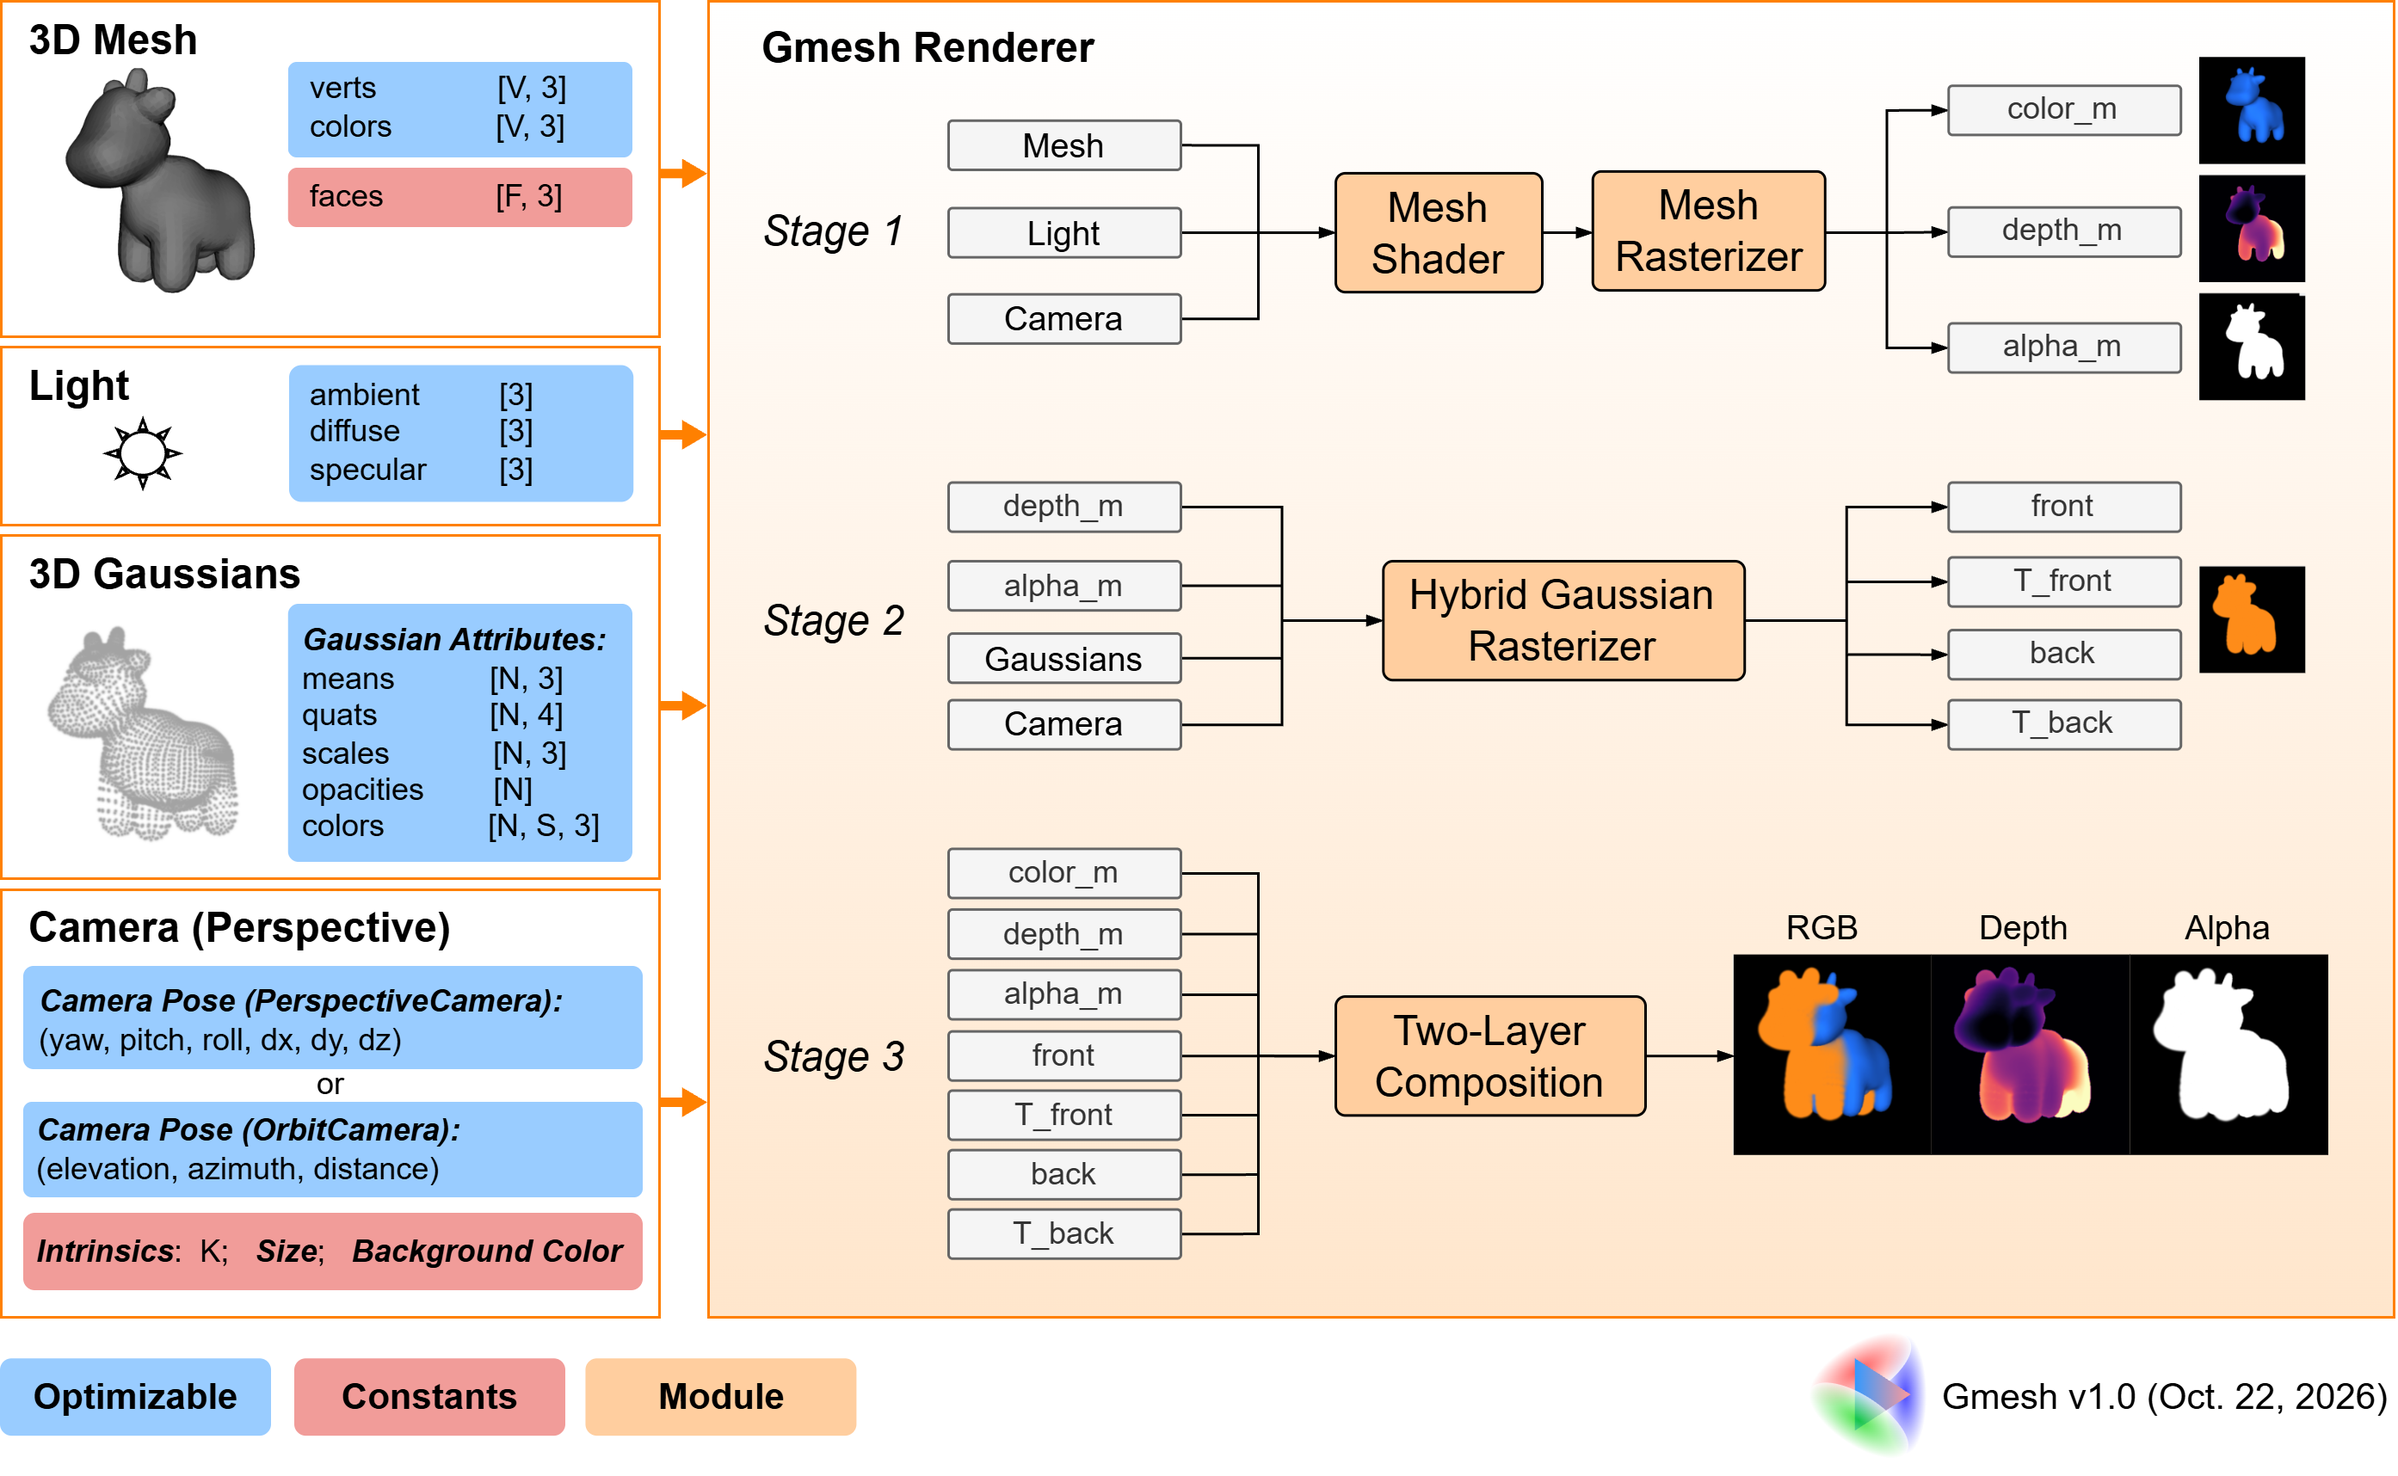
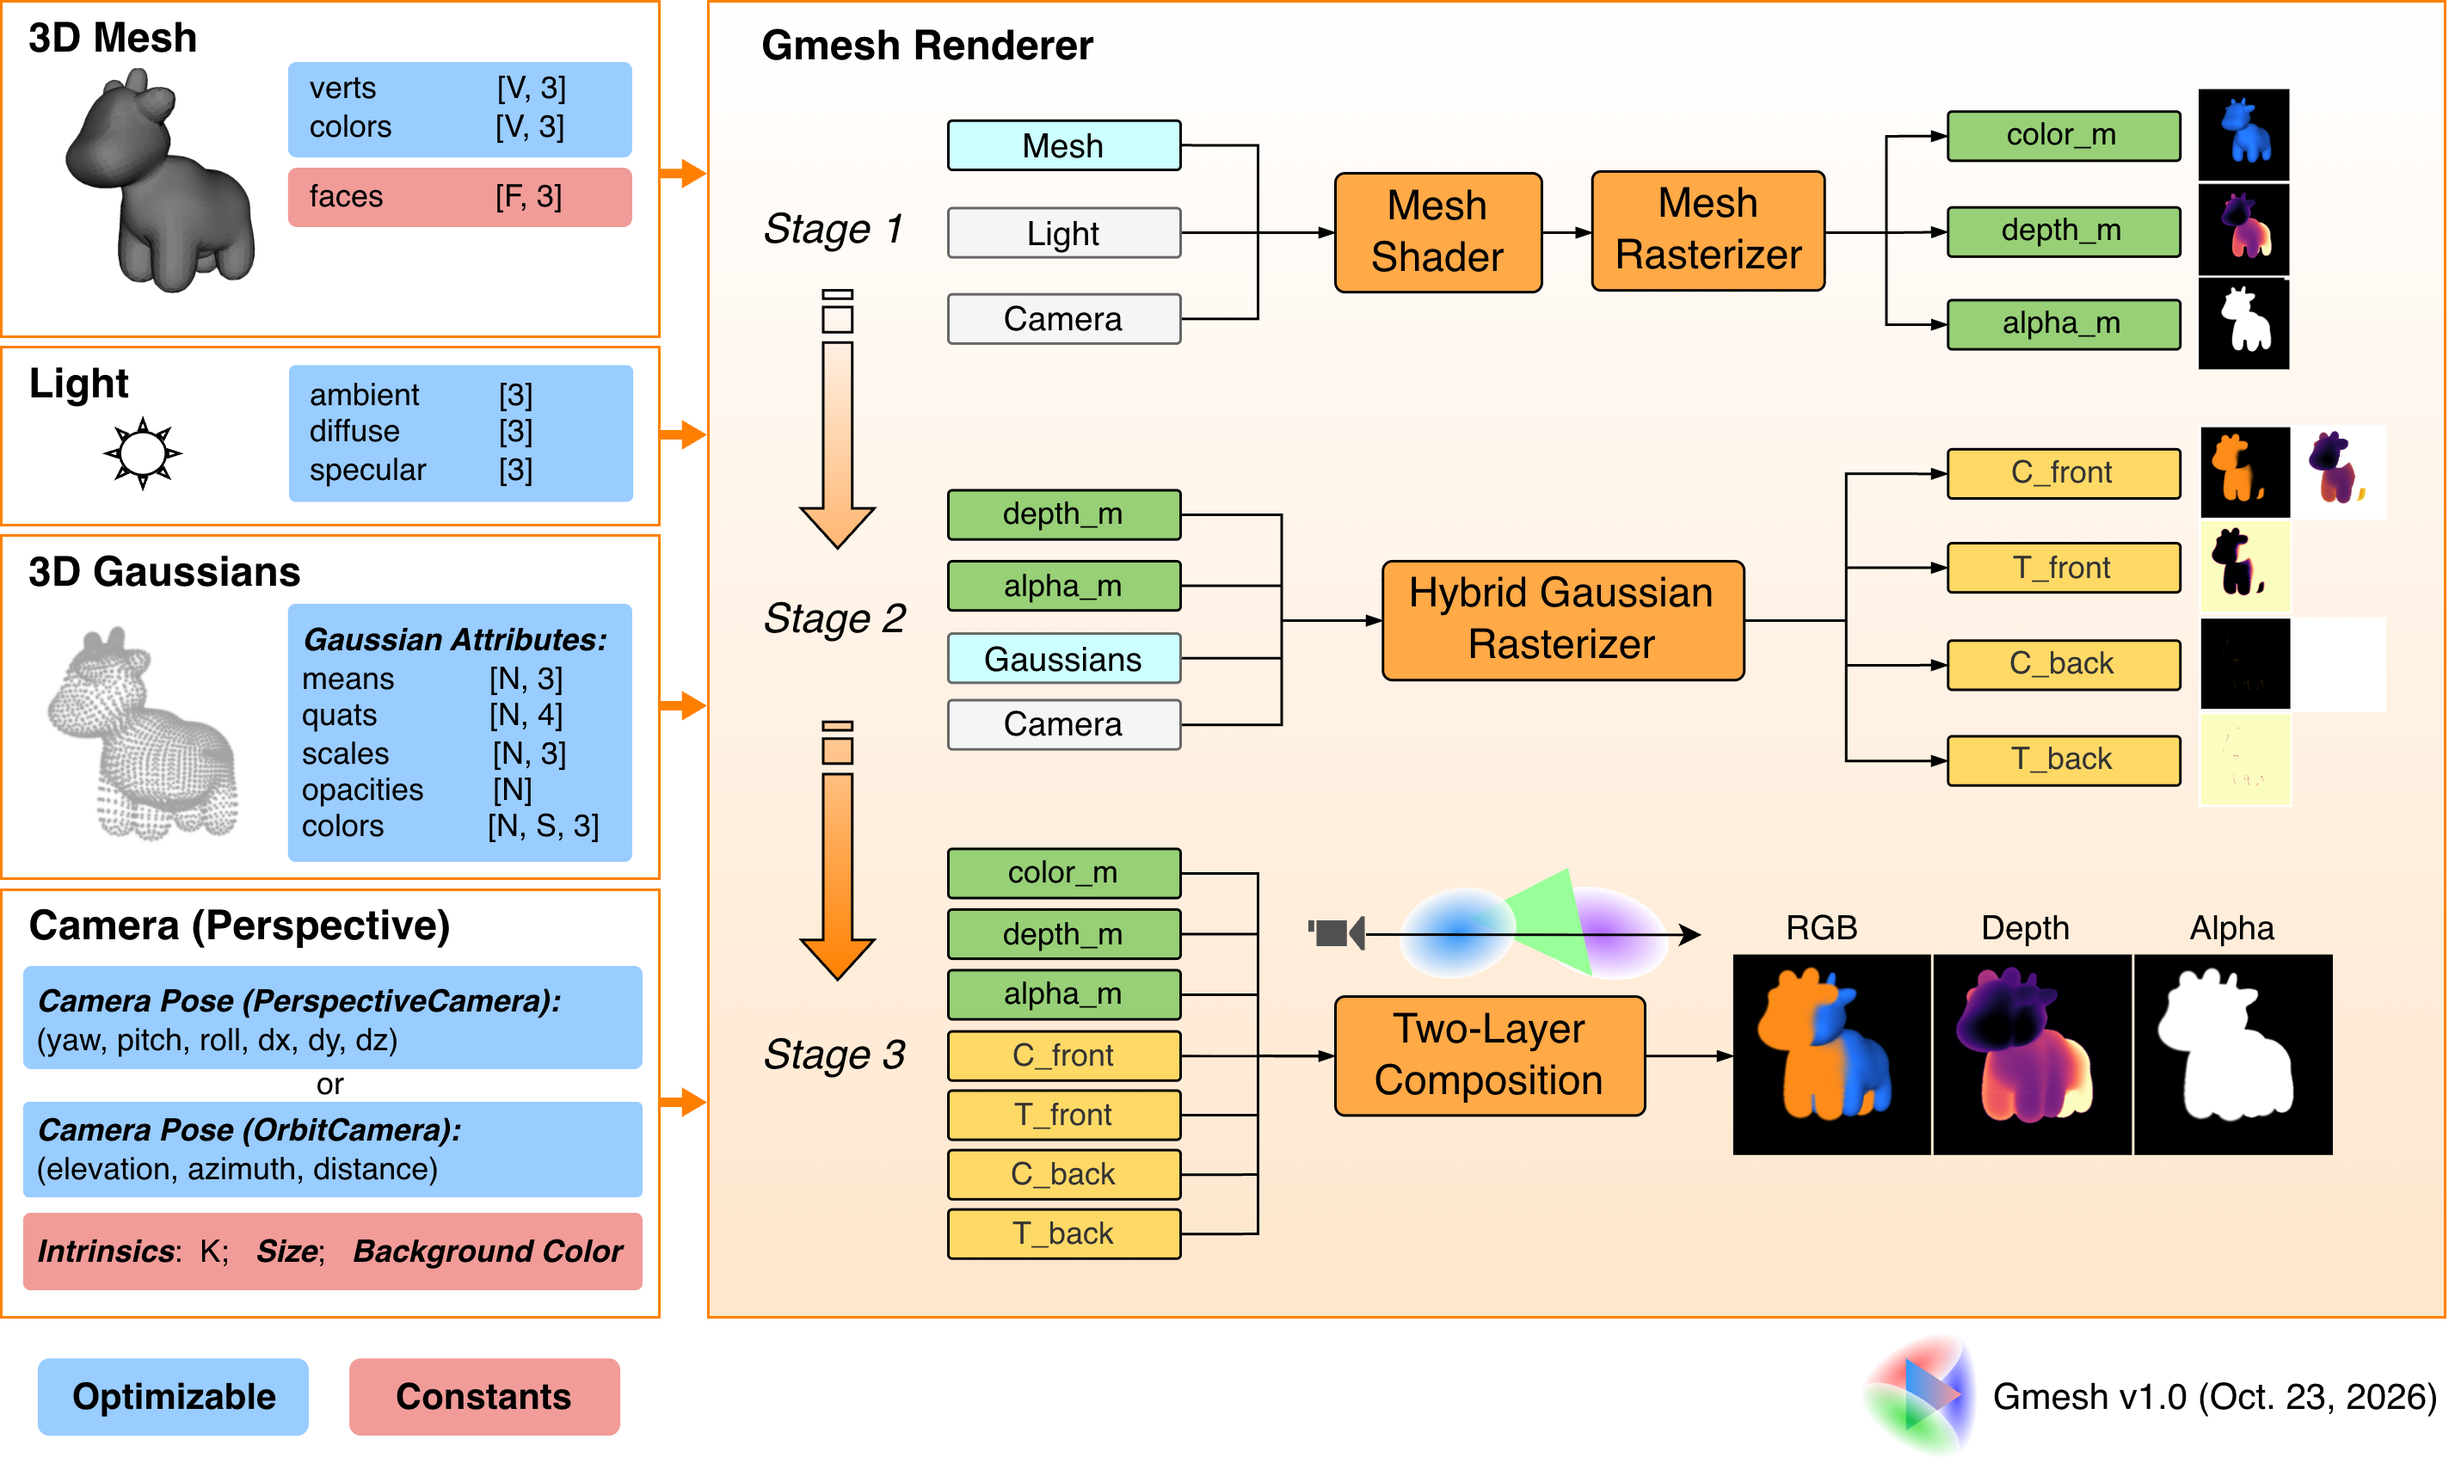
minor updates

diff --git a/interactive_demo.py b/interactive_demo.py
@@ -44,6 +44,11 @@ display_buffer = np.ones((WINDOW_H, WINDOW_W, 3), dtype=np.float32)
 fps_last_time = time.time()
 fps_last_val = 0.0
 
+# "Layers" view: 2x2 grid of the Gaussian layers in front of / behind the mesh
+LAYER_PANELS = ["front (RGB)", "T_front", "back (RGB)", "T_back"]  # row-major
+CANVAS_PADDING = 8  # default DearPyGui window padding (image offset in the canvas window)
+_magma = plt.get_cmap('magma')
+
 
 
 
@@ -75,6 +80,20 @@ gmesh_renderer = GmeshRenderer(camera=camera, tile_size=16, bg_color=(1.0, 1.0, 
 
 
 
+def _half(img):
+    """[H, W, 3] -> [H/2, W/2, 3], 2x2 box filter"""
+    return 0.25 * (img[0::2, 0::2] + img[1::2, 0::2] + img[0::2, 1::2] + img[1::2, 1::2])
+
+
+def layers_grid(layers):
+    """2x2 grid: front RGB | T_front (top), back RGB | T_back (bottom), at half resolution."""
+    rgb = lambda x: np.clip(x[0, ..., :3].cpu().numpy(), 0.0, 1.0)                   # premultiplied, no background
+    heat = lambda T: _magma(np.clip(T[0, ..., 0].cpu().numpy(), 0.0, 1.0))[..., :3]  # transmittance, 0~1
+    top = np.concatenate([_half(rgb(layers['front'])), _half(heat(layers['T_front']))], axis=1)
+    bottom = np.concatenate([_half(rgb(layers['back'])), _half(heat(layers['T_back']))], axis=1)
+    return np.concatenate([top, bottom], axis=0).astype(np.float32)
+
+
 @torch.no_grad()
 def update_image():
     global display_buffer, fps_last_time, fps_last_val
@@ -89,7 +108,7 @@ def update_image():
     camera_pose = torch.tensor([[elevation, azimuth, distance]], dtype=torch.float32, device=device)
 
     # Get render mode and channel to display
-    render_mode = dpg.get_value("render_mode_selector")  # "Mesh", "3DGS", "GMesh"
+    render_mode = dpg.get_value("render_mode_selector")  # "Mesh", "3DGS", "GMesh", "Layers"
     channel     = dpg.get_value("channel_selector")      # "RGB", "Depth", "Alpha"
 
     # Get Gaussian scale and opacity
@@ -134,7 +153,11 @@ def update_image():
         [rgb, depth, alpha] = ret_dict['blend']
 
     # Prepare image to display
-    if channel == "RGB":
+    for i in range(len(LAYER_PANELS)):
+        dpg.configure_item(f"_layer_label_{i}", show=(render_mode == "Layers"))
+    if render_mode == "Layers":
+        display_np = layers_grid(ret_dict['layers'])  # ignores the display channel
+    elif channel == "RGB":
         rgb_np = rgb.detach().cpu().numpy()[0]
         rgb_np = np.clip(rgb_np, 0.0, 1.0)
         display_np = rgb_np
@@ -194,6 +217,13 @@ with dpg.texture_registry(show=False):
 # Main canvas window
 with dpg.window(label="canvas", tag="_canvas_window", width=WINDOW_W+360, height=WINDOW_H+20, no_title_bar=True, no_move=True, no_bring_to_front_on_focus=True, no_resize=True):
     dpg.add_image("_scene_texture", width=WINDOW_W, height=WINDOW_H, tag="_image")
+    # panel labels of the "Layers" view, drawn over the image
+    for i, name in enumerate(LAYER_PANELS):
+        x = CANVAS_PADDING + (i % 2) * (WINDOW_W // 2) + 6
+        y = CANVAS_PADDING + (i // 2) * (WINDOW_H // 2) + 6
+        with dpg.drawlist(width=110, height=22, pos=(x, y), tag=f"_layer_label_{i}", show=False):
+            dpg.draw_rectangle((0, 0), (110, 22), fill=(0, 0, 0, 160), color=(0, 0, 0, 0))
+            dpg.draw_text((6, 3), name, color=(255, 255, 255, 255), size=15)
 
 # Camera controls
 with dpg.window(label="Camera Controls", width=330, height=180, pos=(WINDOW_W+5, 5)):
@@ -207,7 +237,7 @@ with dpg.window(label="Camera Controls", width=330, height=180, pos=(WINDOW_W+5,
 # Content controls
 with dpg.window(label="Content Controls", width=330, height=155, pos=(WINDOW_W+5, 180+10)):
     dpg.add_text("Rendering")
-    dpg.add_combo(["Mesh", "3DGS", "GMesh"], tag="render_mode_selector", default_value="GMesh", callback=lambda: update_image())
+    dpg.add_combo(["Mesh", "3DGS", "GMesh", "Layers"], tag="render_mode_selector", default_value="GMesh", callback=lambda: update_image())
     dpg.add_text("Display Channel")
     dpg.add_combo(["RGB", "Depth", "Alpha"], tag="channel_selector", default_value="RGB", callback=lambda: update_image())
     dpg.add_checkbox(label="Antialiased mesh edges", tag="antialias_checkbox", default_value=True, callback=lambda: update_image())

diff --git a/gmesh/renderer/gmesh_renderer.py b/gmesh/renderer/gmesh_renderer.py
@@ -107,7 +107,7 @@ class GmeshRenderer:
             camera_pose (torch.Tensor):
                 - for PerspectiveCamera, [B,6] (yaw, pitch, roll, dx, dy, dz);
                 - for OrbitCamera, [B, 3] (elevation, azimuth, distance).
-            return_all (bool): whether or not to also return the mesh and the 3D Gaussians rendered on their own
+            return_all (bool): (debug use only) whether or not to also return the mesh and the 3D Gaussians rendered on their own
             softness (float): soft depth test width; defaults to self.softness.
 
         Returns:
@@ -146,6 +146,7 @@ class GmeshRenderer:
             ret_dict = {
                 'mesh':  [rgb_m, depth_m, alpha_m],
                 '3dgs':  [rgb_g, depth_g, alpha_g],
+                'layers': layers,
                 'blend': [rgb, depth, alpha],
             }
             return ret_dict

diff --git a/gmesh/utils/graphics_utils.py b/gmesh/utils/graphics_utils.py
@@ -6,7 +6,6 @@
 import torch
 import math
 import numpy as np
-import cv2
 
 
 def compute_vertex_normals(verts, faces):

diff --git a/README.md b/README.md
@@ -2,14 +2,14 @@
     <img src="./assets/GMesh-logo.png" width="500px" />
 </p>
 
-<h1 align="center">Differentiable Hybrid Renderer for 3D Gaussians & Mesh</h1>
+<h1 align="center">A Lightweight and Differentiable Renderer for Joint Mesh and 3D Gaussian Splat Scenes</h1>
 
 
 <a href="https://opensource.org/licenses/MIT">
 <img src="https://img.shields.io/badge/License-MIT-yellow.svg" alt="License: MIT">
 </a>
 
-**Current Version**: v1.0 (October 15, 2026)
+**Current Version**: v1.0 (October 23, 2026)
 
 ### What's new in v1.0
 - Gmesh's own differentiable, tile-based CUDA mesh rasterizer (PyTorch3D is no longer used), with analytic edge
@@ -49,6 +49,9 @@ conda activate gmesh
 # install cuda toolkit
 conda install -c "nvidia/label/cuda-11.7.1" cuda-toolkit ninja
 conda install -c conda-forge cudatoolkit=11.7 cudatoolkit-dev=11.7
+
+# install gcc 11 (nvcc 11.7 needs gcc 11)
+conda install -c conda-forge gcc=11 gxx=11
 
 # install PyTorch
 pip install torch==2.0.1 torchvision --index-url https://download.pytorch.org/whl/cu117
